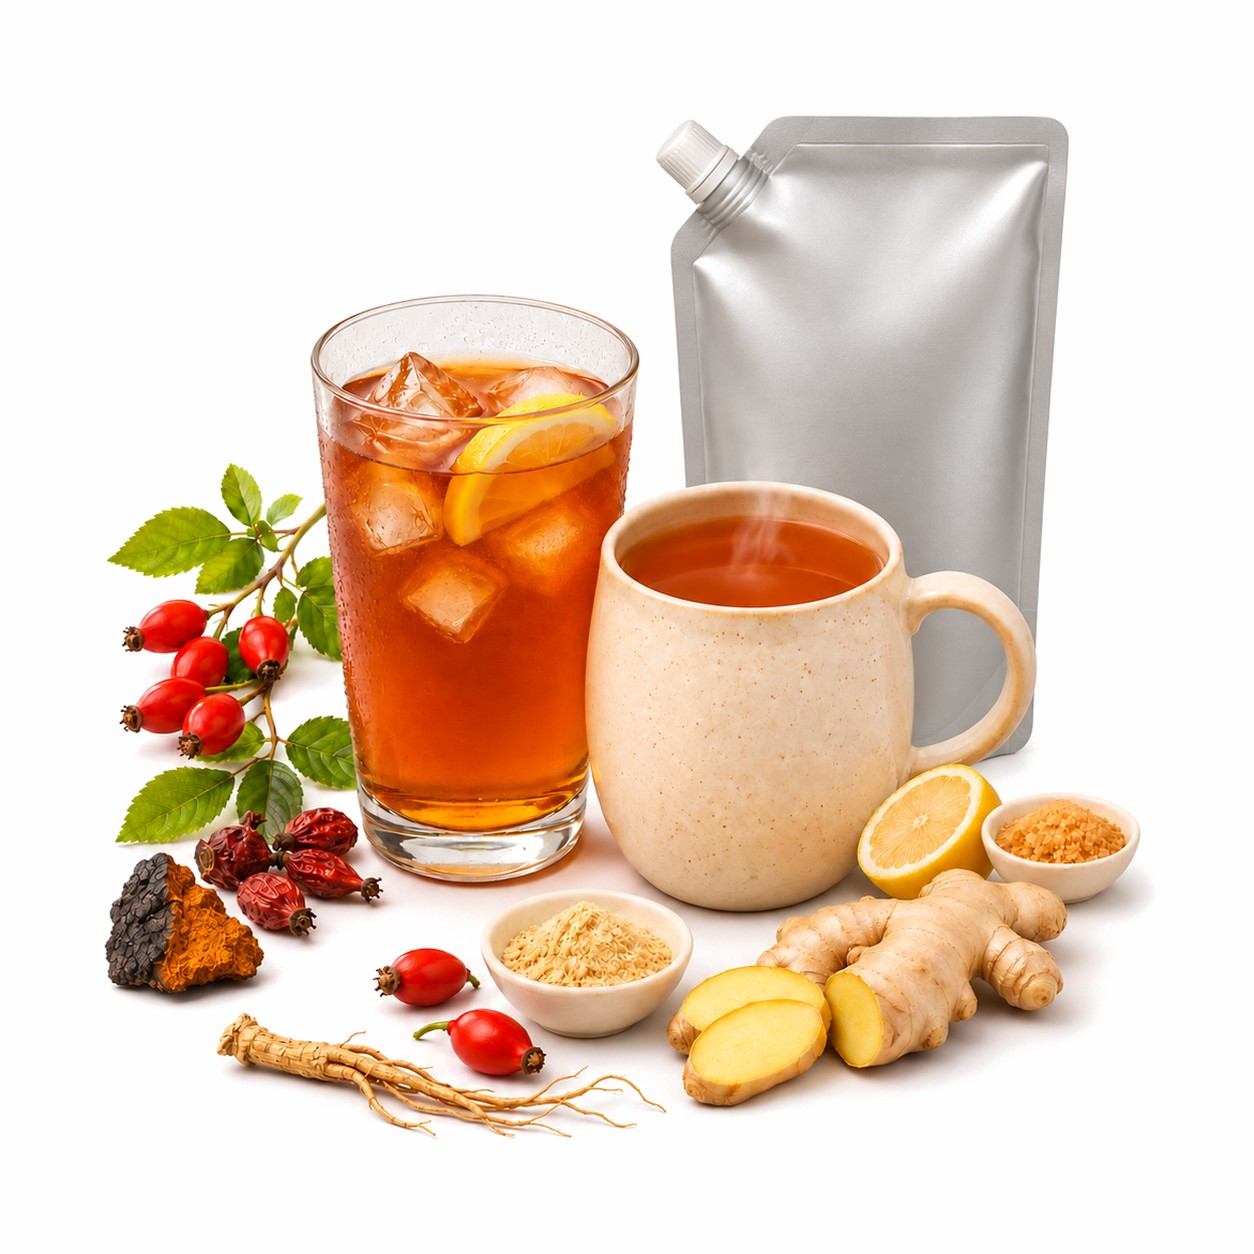
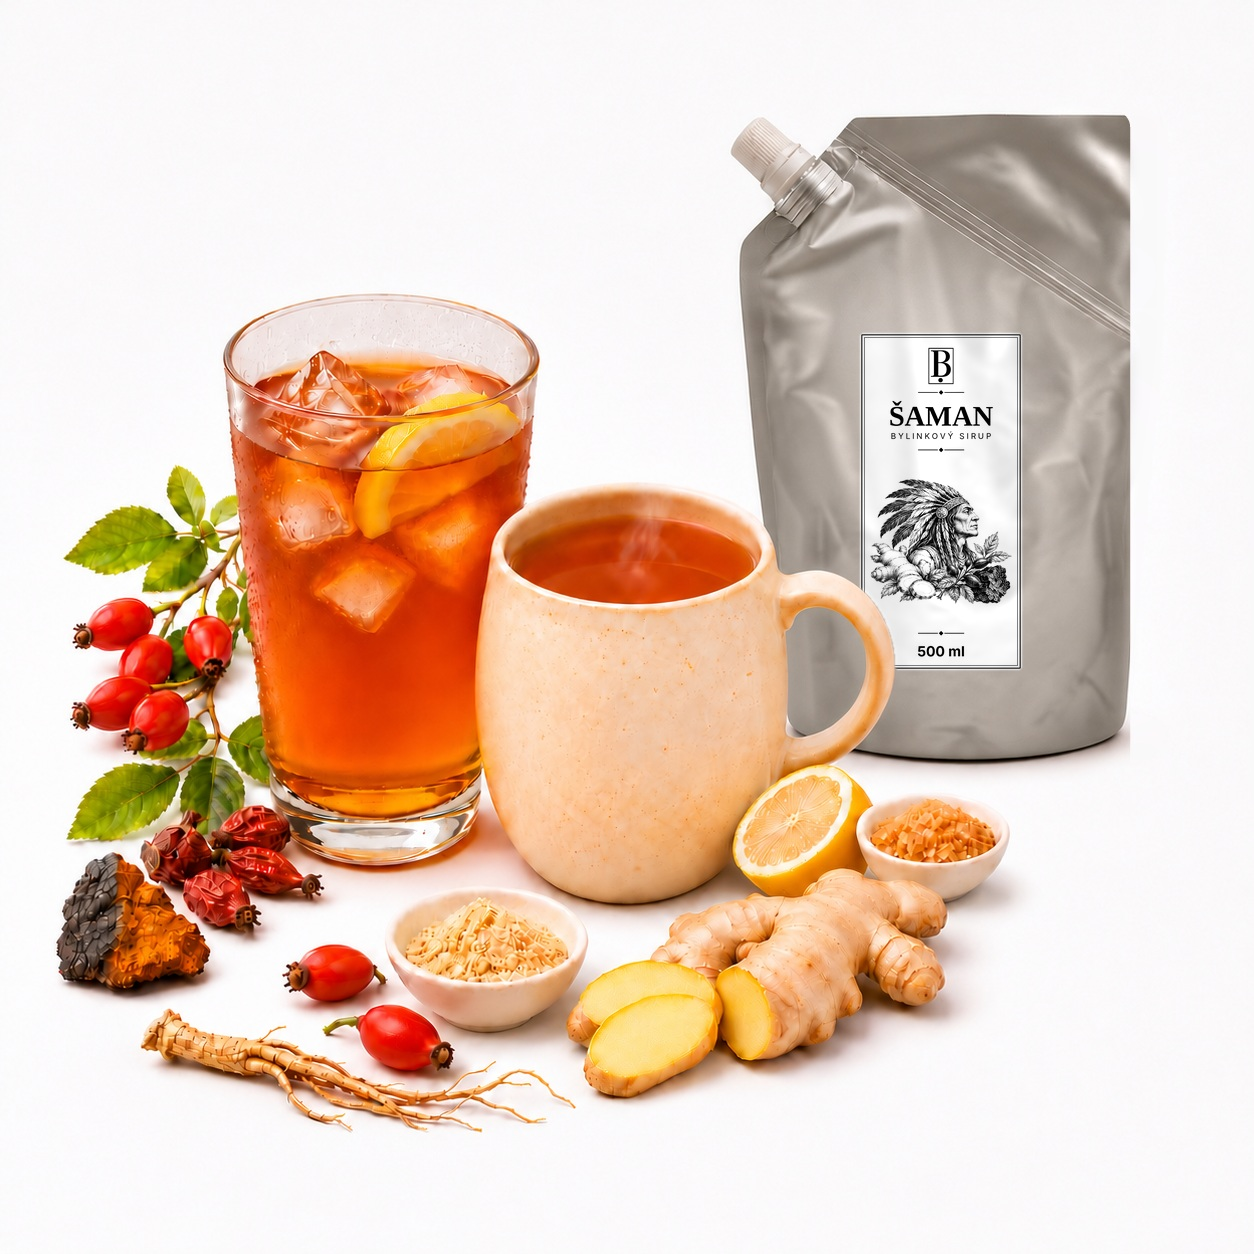
Bylinkový sirup Šaman: nová fotka se stříbrným sáčkem a černobílou etiketou 500 ml (#641)
Claude-Session: https://claude.ai/code/session_016QL8fyP6fDGx2RMwKgd8AU

diff --git a/dashboard/lib/eshop/productImages.ts b/dashboard/lib/eshop/productImages.ts
@@ -78,6 +78,7 @@ const BACKDROP: Record<string, string> = {
   "/eshop/sirupy/bylinny-sirup-saman-hlavni.jpg": "#fefefe",
   "/eshop/sirupy/bylinny-sirup-saman-sacek.jpg": "#fefefe",
   "/eshop/sirupy/bylinny-sirup-saman-doypack.jpg": "#fefefe",
+  "/eshop/sirupy/bylinny-sirup-saman-doypack-v2.jpg": "#fefefe",
   "/eshop/sirupy/zazvorovy-sirup-hlavni.jpg": "#fefefe",
   "/eshop/sirupy/zazvorovy-sirup-sacek.jpg": "#fefefe",
   "/eshop/sirupy/zazvorovy-sirup-doypack.jpg": "#fefefe",
